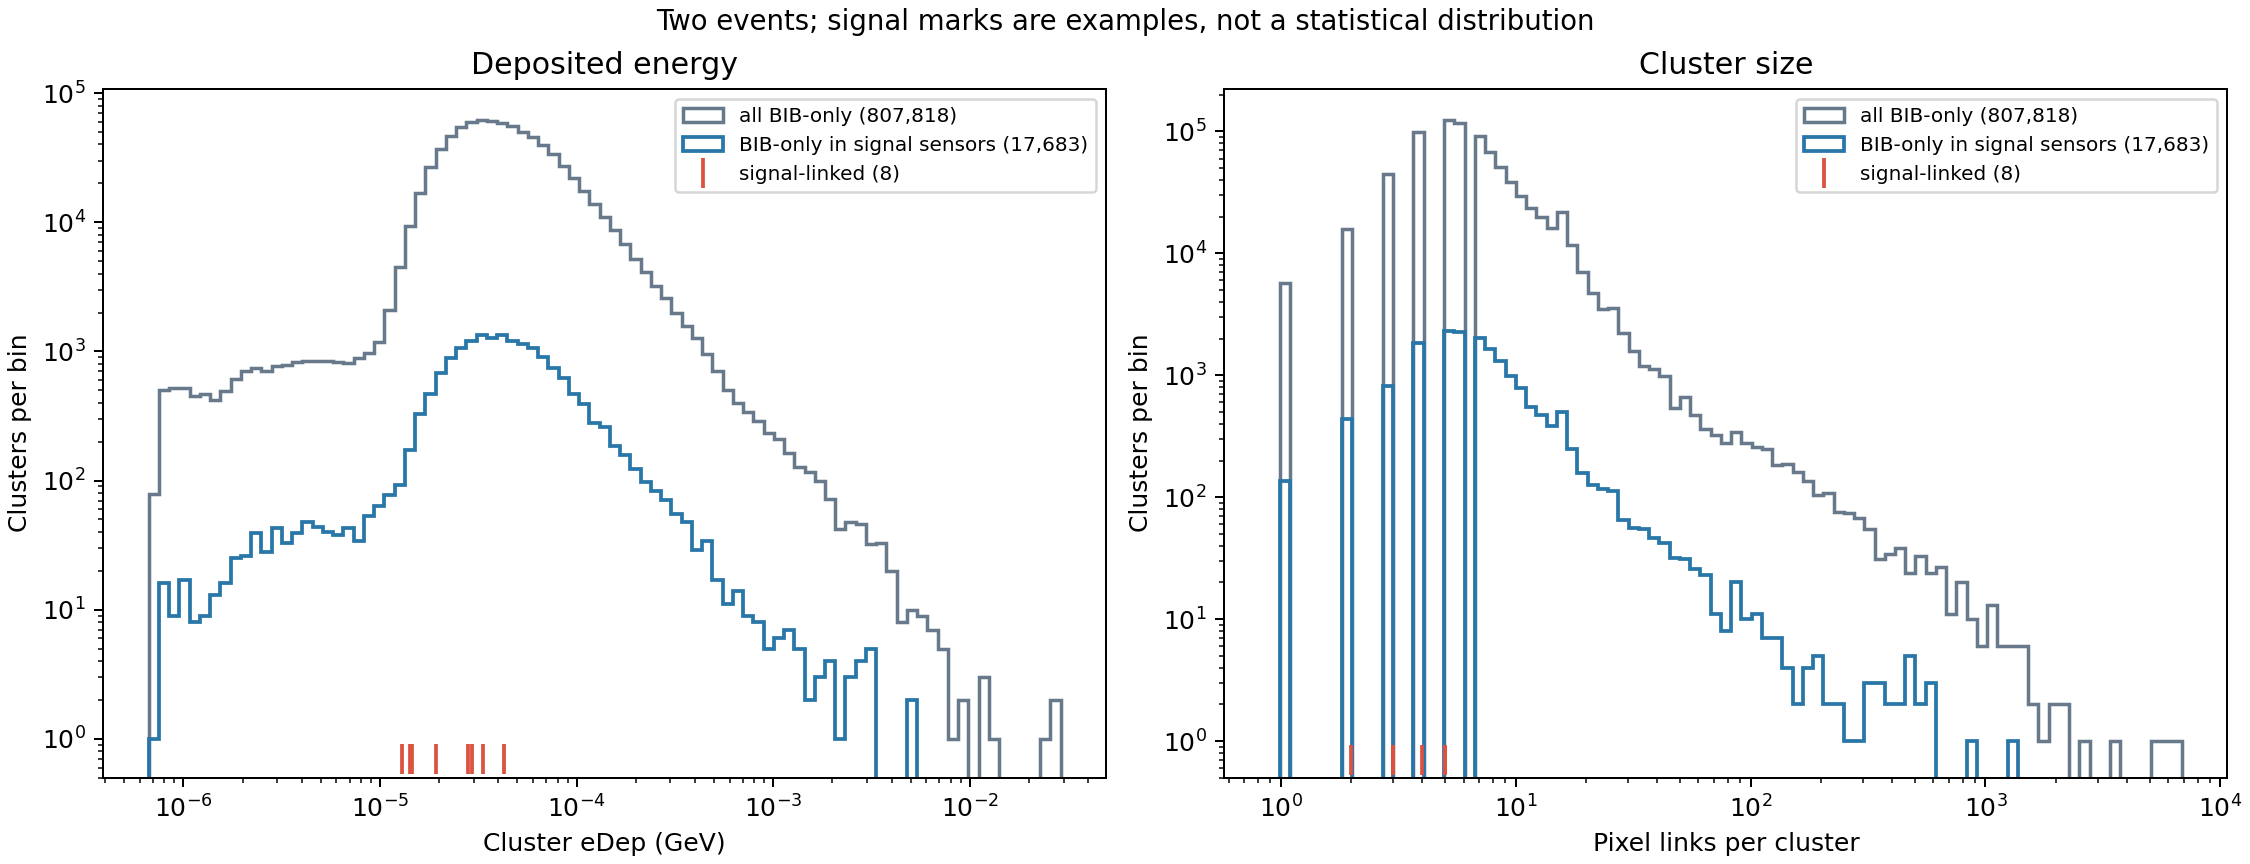
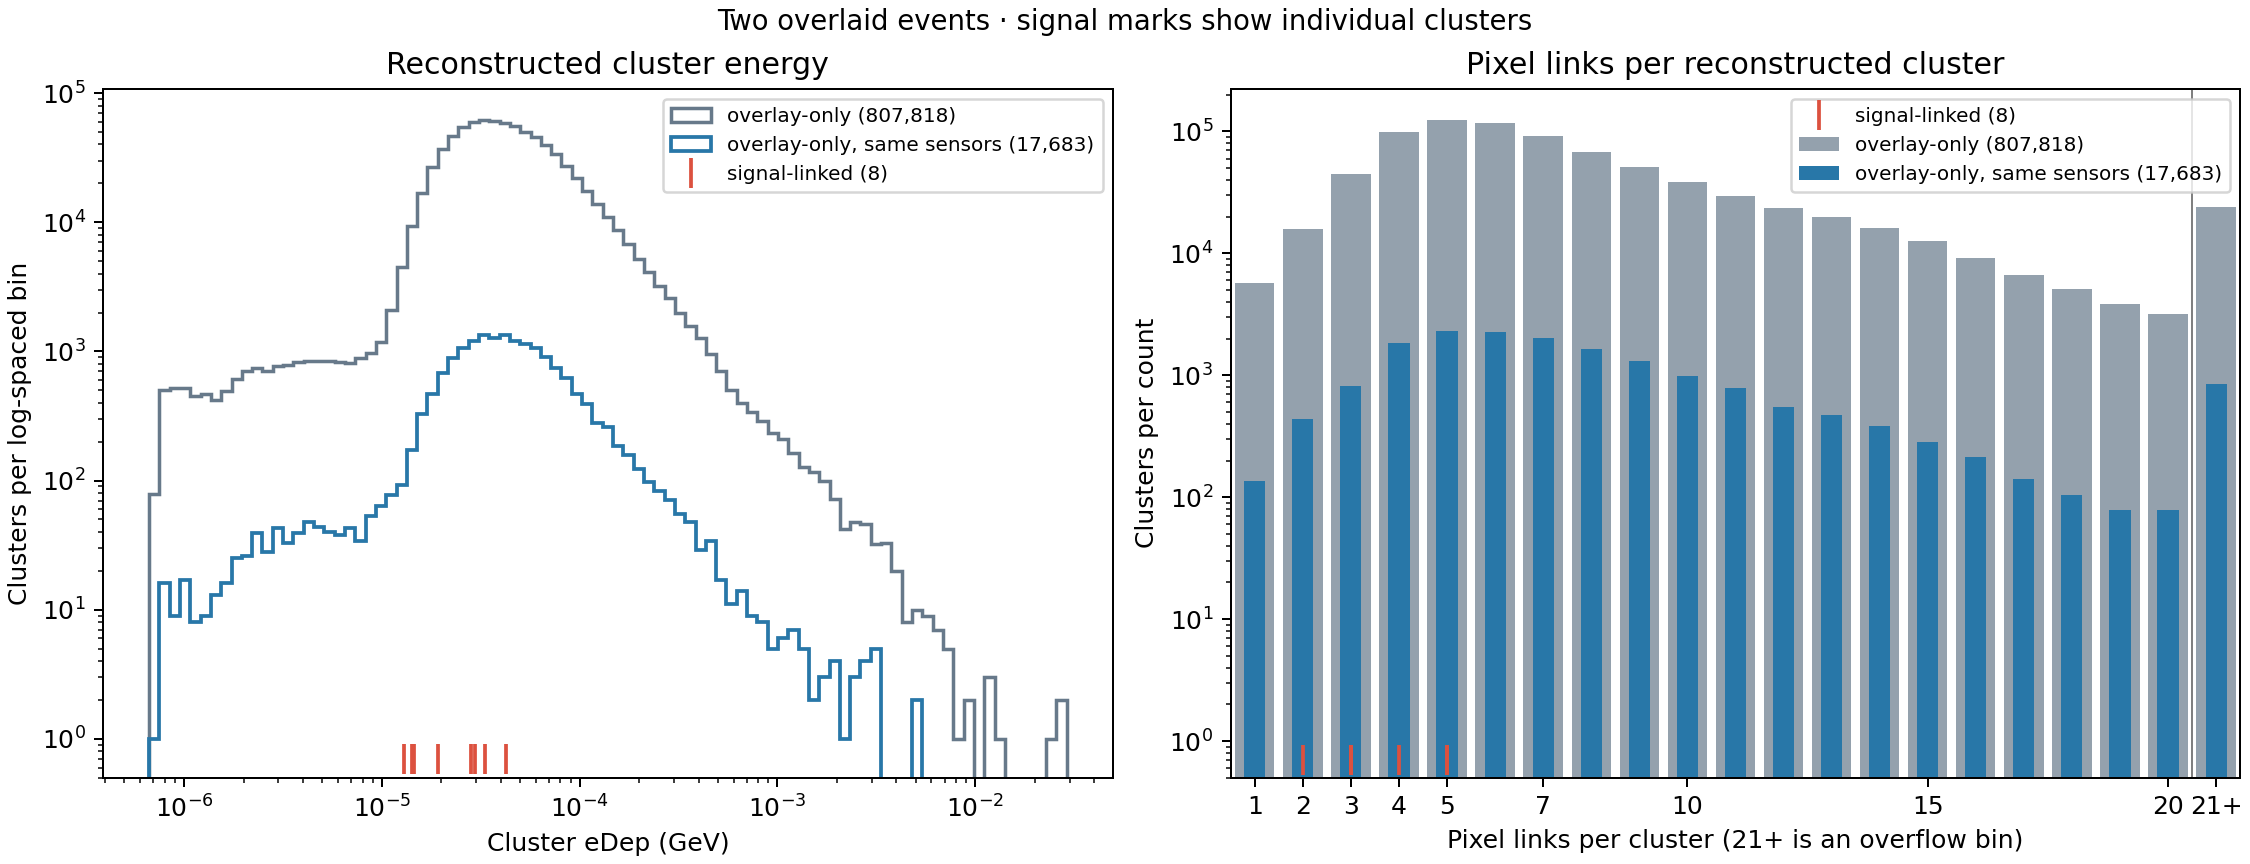
Audit MAIA plots and polish visualization review

diff --git a/MuC_Smartpix_Data_Production/MAIADataset/plot_maia_digitization.py b/MuC_Smartpix_Data_Production/MAIADataset/plot_maia_digitization.py
@@ -100,7 +100,10 @@ def save_occupancy(clusters: pd.DataFrame, signal: np.ndarray, output: Path) -> 
                    s=75, marker="o", label=f"signal-linked clusters ({len(sig)})", zorder=4)
         ax.set(xlabel=xlabel, ylabel=ylabel, title=title)
         ax.legend(loc="upper right", framealpha=0.95, fontsize=8)
-        fig.colorbar(image, ax=ax, label="BIB-only clusters per bin")
+        bin_width = xedges[1] - xedges[0]
+        fig.colorbar(image, ax=ax, label=f"Overlay-only clusters / {bin_width:g} × {yedges[1] - yedges[0]:g} mm bin")
+    axes[1].set_aspect("equal", adjustable="box")
+    fig.suptitle("Vertex barrel reconstructed clusters · two overlaid events", fontsize=11)
     fig.savefig(output, dpi=180)
     plt.close(fig)
 
@@ -109,24 +112,41 @@ def save_features(clusters: pd.DataFrame, signal: np.ndarray, pixel_counts: np.n
     same_sensor = clusters["cellID"].isin(clusters.loc[signal, "cellID"])
     bib = ~signal
     fig, axes = plt.subplots(1, 2, figsize=(12.5, 4.8), constrained_layout=True)
-    features = [
-        (clusters["eDep"].to_numpy(float), "Cluster eDep (GeV)", "Deposited energy"),
-        (pixel_counts.astype(float), "Pixel links per cluster", "Cluster size"),
-    ]
     colors = {"all": "#67798a", "matched": "#2877a8", "signal": "#dc513f"}
-    for ax, (values, xlabel, title) in zip(axes, features):
-        positive = values[values > 0]
-        bins = np.geomspace(max(positive.min() * 0.9, 1e-9), positive.max() * 1.05, 90)
-        ax.hist(values[bib], bins=bins, histtype="step", linewidth=1.4,
-                color=colors["all"], label=f"all BIB-only ({bib.sum():,})")
-        ax.hist(values[bib & same_sensor], bins=bins, histtype="step", linewidth=1.5,
-                color=colors["matched"], label=f"BIB-only in signal sensors ({(bib & same_sensor).sum():,})")
-        ax.plot(values[signal], np.full(signal.sum(), 0.7), "|", markersize=12,
-                markeredgewidth=1.5, color=colors["signal"], label=f"signal-linked ({signal.sum()})")
-        ax.set(xscale="log", yscale="log", ylim=(0.5, None), xlabel=xlabel,
-               ylabel="Clusters per bin", title=title)
-        ax.legend(fontsize=8)
-    fig.suptitle("Two events; signal marks are examples, not a statistical distribution", fontsize=11)
+    energy = clusters["eDep"].to_numpy(float)
+    positive = energy[energy > 0]
+    bins = np.geomspace(max(positive.min() * 0.9, 1e-9), positive.max() * 1.05, 90)
+    ax = axes[0]
+    ax.hist(energy[bib], bins=bins, histtype="step", linewidth=1.4,
+            color=colors["all"], label=f"overlay-only ({bib.sum():,})")
+    ax.hist(energy[bib & same_sensor], bins=bins, histtype="step", linewidth=1.5,
+            color=colors["matched"], label=f"overlay-only, same sensors ({(bib & same_sensor).sum():,})")
+    ax.plot(energy[signal], np.full(signal.sum(), 0.7), "|", markersize=12,
+            markeredgewidth=1.5, color=colors["signal"], label=f"signal-linked ({signal.sum()})")
+    ax.set(xscale="log", yscale="log", ylim=(0.5, None), xlabel="Cluster eDep (GeV)",
+           ylabel="Clusters per log-spaced bin", title="Reconstructed cluster energy")
+    ax.legend(fontsize=8)
+
+    # Pixel counts are integers. The final category keeps every cluster while
+    # avoiding the artificial spikes caused by logarithmic bins over integers.
+    ax = axes[1]
+    x = np.arange(1, 22)
+    all_counts = np.bincount(np.minimum(pixel_counts[bib], 21), minlength=22)[1:]
+    sensor_counts = np.bincount(np.minimum(pixel_counts[bib & same_sensor], 21), minlength=22)[1:]
+    ax.bar(x, all_counts, width=0.82, color=colors["all"], alpha=0.7,
+           label=f"overlay-only ({bib.sum():,})")
+    ax.bar(x, sensor_counts, width=0.44, color=colors["matched"],
+           label=f"overlay-only, same sensors ({(bib & same_sensor).sum():,})")
+    ax.plot(pixel_counts[signal], np.full(signal.sum(), 0.7), "|", markersize=12,
+            markeredgewidth=1.5, color=colors["signal"], label=f"signal-linked ({signal.sum()})")
+    ax.axvline(20.5, color="0.5", linewidth=0.8)
+    ax.set(yscale="log", ylim=(0.5, None), xlim=(0.5, 21.5),
+           xlabel="Pixel links per cluster (21+ is an overflow bin)",
+           ylabel="Clusters per count", title="Pixel links per reconstructed cluster")
+    ax.set_xticks([1, 2, 3, 4, 5, 7, 10, 15, 20, 21],
+                  ["1", "2", "3", "4", "5", "7", "10", "15", "20", "21+"])
+    ax.legend(fontsize=8)
+    fig.suptitle("Two overlaid events · signal marks show individual clusters", fontsize=11)
     fig.savefig(output, dpi=180)
     plt.close(fig)
 
@@ -148,14 +168,14 @@ def save_link_quality(link_path: Path, output: Path) -> dict:
                  markersize=12, color="#dc513f", label="signal sim-hit links")
     axes[0].axvline(10, color="black", linestyle="--", linewidth=1, label="10 mm review threshold")
     axes[0].set(xscale="log", yscale="log", ylim=(0.5, None), xlabel="Cluster–sim hit distance (mm)",
-                ylabel="Links per bin", title="Link distances")
+                ylabel="Links per log-spaced bin", title="Link distances")
     axes[0].legend(fontsize=8)
 
     valid = all_hist >= 30
     axes[1].plot(centres[valid], mismatch_hist[valid] / all_hist[valid], ".-", color="#2877a8")
     axes[1].axvline(10, color="black", linestyle="--", linewidth=1)
     axes[1].set(xscale="log", ylim=(0, 1), xlabel="Cluster–sim hit distance (mm)",
-                ylabel="Fraction with different cellID", title="Sensor-ID mismatch by distance")
+                ylabel="Fraction with different cellID", title="Cell ID mismatch (≥30 links per bin)")
     fig.savefig(output, dpi=180)
     plt.close(fig)
     return {"links": len(links), "links_over_10_mm": int((dist > 10).sum()),
@@ -173,17 +193,23 @@ def save_pixel_examples(stub: Path, output: Path) -> dict:
     )
     if len(joined) != len(links) or joined["eDep"].isna().any():
         raise ValueError("some signal-only pixels could not be linked to a cluster")
-    sizes = joined.groupby(["ievent", "from_index"]).size().sort_values(ascending=False)
+    sizes = joined.groupby(["ievent", "from_collectionID", "from_index"]).size().sort_values(ascending=False)
     selected = list(sizes.head(4).index)
-    selected_rows = [joined[(joined["ievent"] == event) & (joined["from_index"] == index)]
-                     for event, index in selected]
+    selected_rows = [joined[(joined["ievent"] == event) &
+                            (joined["from_collectionID"] == collection_id) &
+                            (joined["from_index"] == index)]
+                     for event, collection_id, index in selected]
     charges = np.concatenate([group["eDep"].to_numpy(float) for group in selected_rows])
+    if not np.isfinite(charges).all() or (charges <= 0).any():
+        raise ValueError("pixel eDep must be finite and positive for a logarithmic colour scale")
     cmap = plt.get_cmap("viridis").copy()
     cmap.set_bad("#eceff1")
-    norm = LogNorm(vmin=max(charges[charges > 0].min(), 1), vmax=charges.max())
+    norm = LogNorm(vmin=charges.min(), vmax=charges.max())
     fig, axes = plt.subplots(2, 2, figsize=(9, 8), constrained_layout=True)
     image = None
-    for ax, (event, index), group in zip(axes.flat, selected, selected_rows):
+    for ax, (event, _collection_id, index), group in zip(axes.flat, selected, selected_rows):
+        if (group[["position.x", "position.y"]].to_numpy(float) % 1 != 0).any():
+            raise ValueError("pixel positions are not integer sensor coordinates")
         x = group["position.x"].to_numpy(int)
         y = group["position.y"].to_numpy(int)
         x0, x1, y0, y1 = x.min(), x.max(), y.min(), y.max()
@@ -199,7 +225,7 @@ def save_pixel_examples(stub: Path, output: Path) -> dict:
                title=f"event {event}, cluster {index} · {len(group)} pixels")
         ax.grid(color="white", alpha=0.3)
     fig.colorbar(image, ax=list(axes.flat), label="Pixel eDep (stored units)", shrink=0.8)
-    fig.suptitle("Signal-only realistic digitization; no BIB overlay", fontsize=12)
+    fig.suptitle("Four clusters with the most linked pixels · separate signal-only sample", fontsize=12)
     fig.savefig(output, dpi=180)
     plt.close(fig)
     return {"pixel_rows": len(pixels), "pixel_links": len(links), "example_clusters": len(selected)}

diff --git a/MuC_Smartpix_Data_Production/MAIADataset/MAIAVisualization.md b/MuC_Smartpix_Data_Production/MAIADataset/MAIAVisualization.md
@@ -1,12 +1,111 @@
-# First look at MAIA vertex digitization
+# MAIA vertex digitization: visualization review
 
-These plots use the two-event `digi_output_mu2` sample with BIB overlay. They do
-not require its ROOT file. The committed Parquet tables contain the clusters,
-overlay sim hits, cluster-to-sim-hit relations, and pixel-to-cluster relations.
-The individual BIB pixel table is absent. A separate, small `digi_real` sample
-provides actual fired-pixel positions and charges for the example pixel maps.
+This is a first look at reconstructed vertex-barrel clusters in the two-event
+`digi_output_mu2` sample with beam-induced background (BIB) overlay. The four
+figures are generated by [`plot_maia_digitization.py`](plot_maia_digitization.py),
+rather than copied from [`tracklistEdmExploration.ipynb`](tracklistEdmExploration.ipynb).
+They show what can be checked from the committed extracted tables; they do not
+establish signal–BIB separation performance.
 
-## Reproduce locally
+## Inputs and labels
+
+| Input | Available data | Used in |
+| --- | --- | --- |
+| `digi_output_mu2` BIB-overlay sample | Committed Parquet tables for 807,826 reconstructed clusters, 1,050,847 sim hits (including eight signal hits), 865,866 cluster-to-sim-hit links, and 6,895,324 pixel-to-cluster links across two events | Figures 1–3 |
+| `digi_real` signal-only sample | Committed CSV tables with 42 clusters and 140 fired pixels; all 140 pixel rows have `overlay=False` | Figure 4 |
+
+The BIB sample's individual pixel table is unavailable in this checkout. Its
+pixel-to-cluster table identifies *which cluster* each pixel belongs to, but
+does not provide that pixel's coordinates or stored value. The separate
+signal-only sample supplies those values for Figure 4.
+
+For Figures 1–2, **signal-linked** means a cluster has at least one linked sim
+hit with `overlay=False`; **overlay-only** means all its linked sim hits have
+`overlay=True`. In these two events, eight clusters are signal-linked, 807,818
+are overlay-only, and none of the eight mixes signal and overlay sim hits.
+
+## Figures
+
+### 1. Reconstructed-cluster occupancy
+
+![BIB cluster occupancy in the vertex barrel with signal-linked clusters marked](figures/maia_occupancy.png)
+
+Colour counts overlay-only clusters; cyan markers locate the eight
+signal-linked clusters. The left view uses 0.5 mm × 0.5 mm bins in z and
+radius. The right view uses 1 mm × 1 mm bins in x and y and projects over z.
+Both views combine the two events. Their colour scales are separate because
+their bin sizes and projections differ. Coordinates are in millimetres.
+
+### 2. Cluster energy and pixel-link count
+
+![BIB cluster energy and pixel-link count, with the eight signal-linked clusters marked](figures/maia_cluster_features.png)
+
+Gray shows all overlay-only clusters. Blue restricts those clusters to sensor
+IDs that contain a signal-linked cluster, pooling the two events. Both are raw
+counts, not normalized distributions. Red ticks mark the eight signal-linked
+clusters individually; eight observations are too few for a signal
+distribution. Their pixel-link counts are `[5, 5, 2, 3, 4, 3, 3, 3]`.
+
+The energy bins are logarithmic. The `eDep` axis uses GeV, the unit specified
+for reconstructed hits in the
+[EDM4hep schema](https://github.com/key4hep/EDM4hep/blob/main/edm4hep.yaml).
+The custom digitizer's unit conversion has not been independently audited.
+Pixel-link counts use exact integer bins from 1 to 20 plus a labelled 21+
+overflow bin, so every cluster is represented.
+
+### 3. Cluster-to-sim-hit link diagnostics
+
+![Cluster to sim-hit link distance and sensor-ID mismatch](figures/maia_link_quality.png)
+
+All 865,866 links resolve by object key. Of these, 10,466 (1.21%) span more
+than 10 mm, and 10,097 (1.17%) connect different sensor `cellID` values. The
+10 mm line is the linker's *review threshold*, not a physics selection cut.
+Distance bins are logarithmic; the mismatch fraction on the right is plotted
+only for bins with at least 30 links. A resolved link can still merit a
+physical-consistency check.
+
+### 4. Pixel examples from a separate signal-only sample
+
+![Four stored pixel eDep maps from the separate signal-only digitized sample](figures/maia_signal_only_pixel_examples.png)
+
+These are the four clusters with the most linked pixels in `digi_real`; they
+are examples, not a representative sample or BIB-overlay pixel maps. The axes
+are sensor pixel column and row, not global detector position. Blank gray cells
+are unoccupied positions within each displayed bounding box. Colour shows the
+pixel's stored `eDep`. Its physical unit in this custom digitizer remains
+unverified, so this figure does not call it charge or energy.
+
+## Validation and limits
+
+- The cluster classes, pixel-link total, and signal-cluster pixel counts were
+  cross-checked against the committed
+  [`linkReport.txt`](edmTestFiles/digi_output_mu2.edm4hep.root.linkReport.txt).
+  Re-running the cluster-to-sim-hit linker on the available Parquet tables
+  reported `0 check(s) failed`.
+- All eight signal sim-hit links have matching cluster/sim-hit `cellID` values
+  and distances below 0.008 mm. The more distant and cross-sensor links in
+  Figure 3 are predominantly in the overlay sample; their origin still needs
+  investigation.
+- The transferred `digi_output_mu2.edm4hep.root` copy is truncated and cannot
+  be reopened. These figures can be checked against the committed extracted
+  tables, but the extraction and custom digitizer cannot be independently
+  validated from that ROOT copy.
+- The BIB-overlaid sample contains two events, 807,826 clusters, and only eight
+  signal-linked clusters. These plots support data inspection and link
+  validation, not estimates of efficiency, rejection, or statistical separation.
+- The pixel-to-cluster relation allows pixel counts, but it does not contain the
+  BIB pixels' coordinates or stored values. Pixel-level truth is also ambiguous
+  for clusters linked to multiple sim hits.
+- Cluster `time` is 25 for 760,989 of 807,826 rows and 0 for the remainder.
+  Its meaning in this digitizer needs checking before a timing plot is used.
+
+Useful points for the dataset owners to review are the pixel `eDep` storage
+unit, whether the distant or cross-sensor links are expected, and whether a
+complete BIB pixel table or readable ROOT file can be provided. With those
+inputs, the next figure should compare signal and BIB pixel shapes in the
+*same* overlaid events.
+
+## Reproduce from the committed tables
 
 Run from the repository root with Python packages `numpy`, `pandas`, `pyarrow`,
 and `matplotlib`. The source tables are read-only; derived files go under
@@ -36,46 +135,4 @@ those links in Parquet batches to count pixels per cluster, without retaining
 all link rows in memory. It saves PNGs, `pixel_counts.npy`, and `summary.json`
 in `local_only/maia_visualizations`. Use `--linked-stub`, `--pixel-stub`,
 `--pixel-links`, and `--output-dir` to point it at other locations.
-
-## What the plots show
-
-![BIB cluster occupancy in the vertex barrel with signal-linked clusters marked](figures/maia_occupancy.png)
-
-The BIB-only cluster density traces the barrel layers. The eight cyan markers
-are clusters linked to a non-overlay sim hit. Positions are in millimetres.
-
-![BIB cluster energy and pixel-link count, with the eight signal-linked clusters marked](figures/maia_cluster_features.png)
-
-The blue BIB curves restrict the reference to the sensors containing a signal
-cluster. Red marks show the eight signal clusters individually; they are too few
-for a meaningful signal distribution. Their pixel-link counts are
-`[5, 5, 2, 3, 4, 3, 3, 3]`.
-
-![Cluster to sim-hit link distance and sensor-ID mismatch](figures/maia_link_quality.png)
-
-All 865,866 cluster-to-sim-hit links resolve by object key, but 10,466 span more
-than 10 mm and 10,097 join different cell IDs. Structural link success does not
-establish that each distant association is physically sensible.
-
-![Four pixel charge maps from the separate signal-only digitized sample](figures/maia_signal_only_pixel_examples.png)
-
-These pixel maps come from `digi_real.edm4hep.root`, **without BIB overlay**.
-Their axes are sensor pixel column and row, not global detector coordinates.
-Pixel colour shows its stored `eDep`; the digitizer's pixel storage convention
-should be checked before assigning a physical unit to that value.
-
-## Limits and next experiment
-
-- The BIB-overlaid sample contains two events, 807,826 clusters, and only eight
-  signal-linked clusters. It supports examples and validation, not performance
-  claims about signal–BIB separation.
-- The pixel-to-cluster relation allows pixel counts, but it does not contain the
-  BIB pixels' coordinates or charges. Pixel-level truth is also ambiguous when
-  a cluster links to multiple sim hits.
-- Cluster `time` is almost always 25 in this sample, so no timing comparison is
-  plotted.
-- To compare signal and BIB *pixel shapes in the same overlaid event*, produce
-  a new digitized sample from the existing valid `sim_output_mu2` file, first
-  with a small BIB overlay count. The MAIA guide's step 3 describes the custom
-  digitizer and BIB configuration. Run substantial cluster processing as a
-  scheduled job rather than on the OSG Access Point.
+The four embedded figures above are copies of those generated PNGs.
